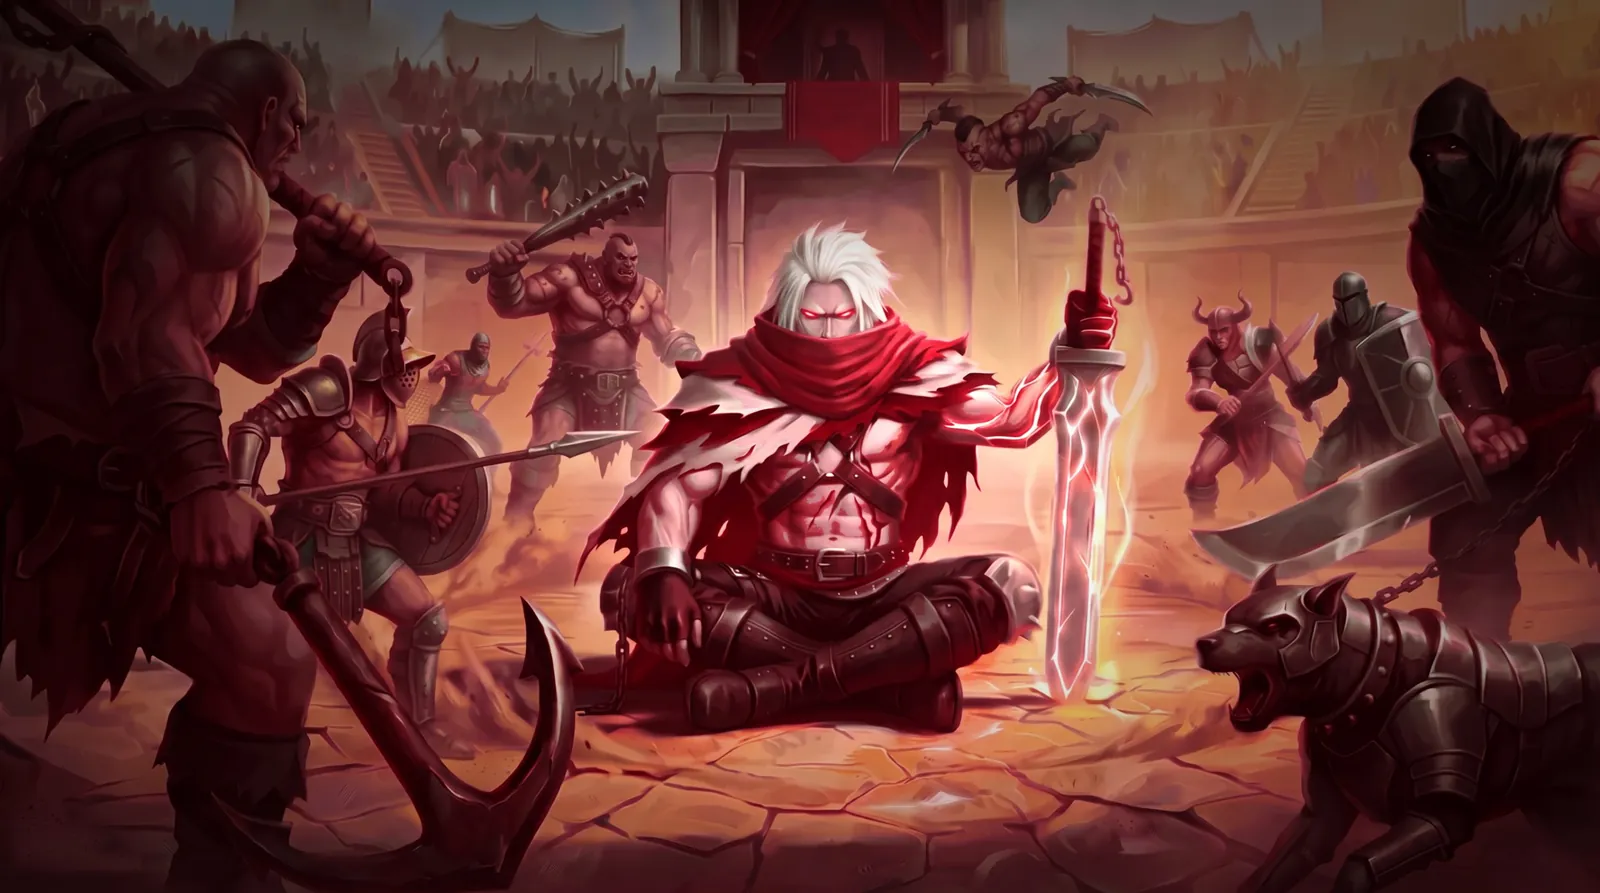
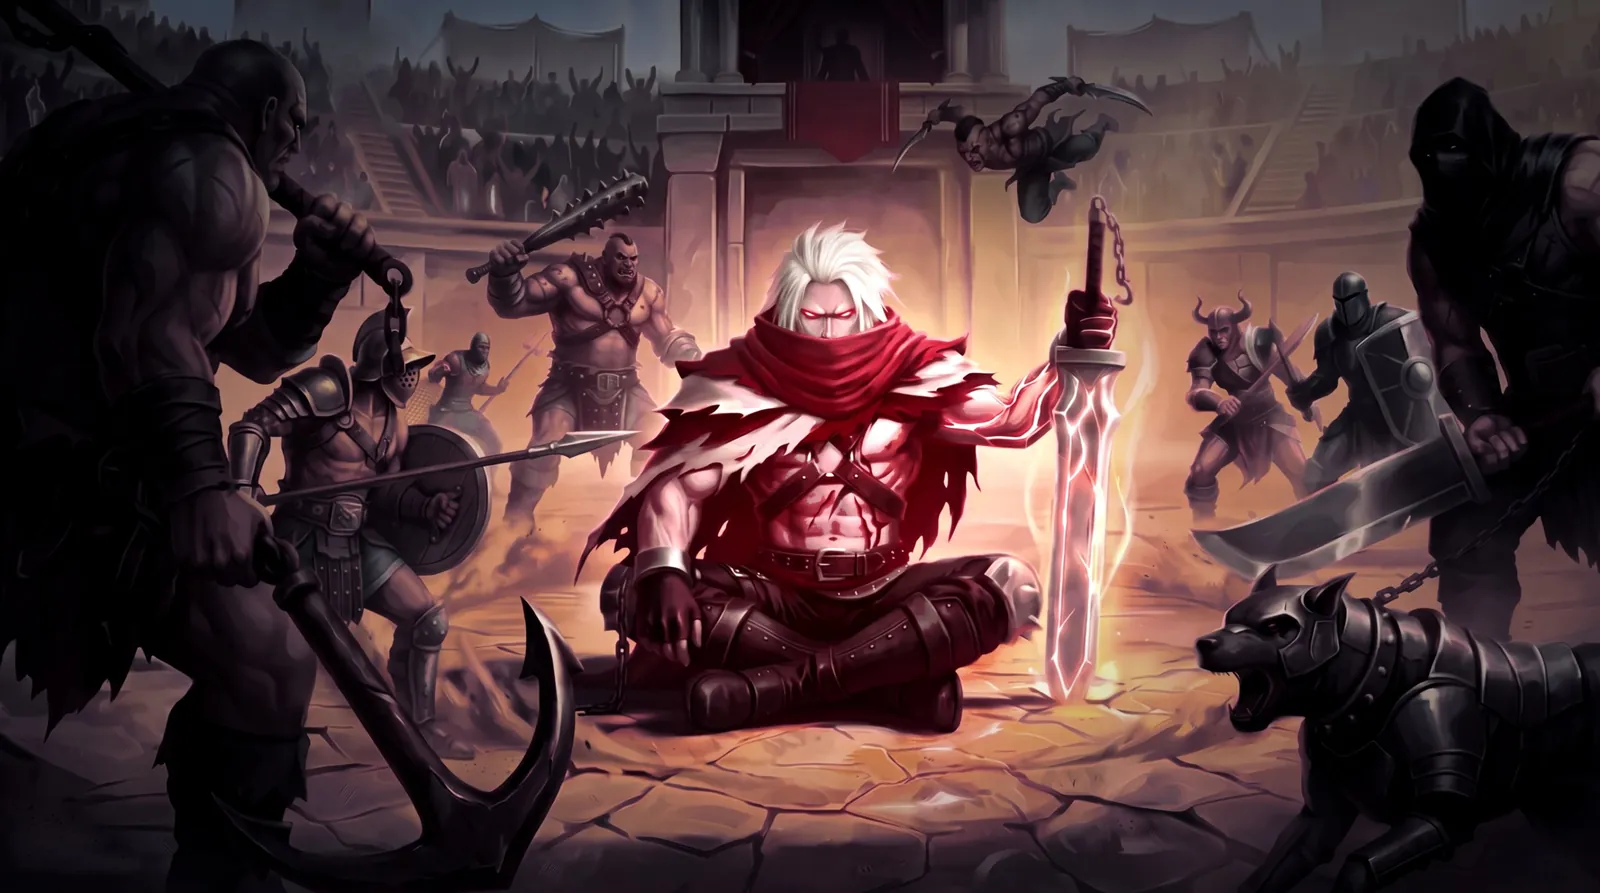
Kael: darker arena splash; Mossy and Kael swap places in the order
Claude-Session: https://claude.ai/code/session_015vSSPmpJoF22Rm1LS1od6V

diff --git a/presskit.html b/presskit.html
@@ -63,9 +63,9 @@
         <h2>Hunter art</h2>
         <div class="pk-grid">
           <a href="assets/img/hunters/vex-2400.webp" target="_blank"><img src="assets/img/hunters/vex-960.webp" alt="Vex splash art" loading="lazy"></a>
-          <a href="assets/img/hunters/kael-2400.webp" target="_blank"><img src="assets/img/hunters/kael-960.webp" alt="Kael splash art" loading="lazy"></a>
-          <a href="assets/img/hunters/lisette-2400.webp" target="_blank"><img src="assets/img/hunters/lisette-960.webp" alt="Ravel splash art" loading="lazy"></a>
           <a href="assets/img/hunters/breaker-2400.webp" target="_blank"><img src="assets/img/hunters/breaker-960.webp" alt="Mossy splash art" loading="lazy"></a>
+          <a href="assets/img/hunters/lisette-2400.webp" target="_blank"><img src="assets/img/hunters/lisette-960.webp" alt="Ravel splash art" loading="lazy"></a>
+          <a href="assets/img/hunters/kael-2400.webp" target="_blank"><img src="assets/img/hunters/kael-960.webp" alt="Kael splash art" loading="lazy"></a>
           <a href="assets/img/hunters/ryzz-2400.webp" target="_blank"><img src="assets/img/hunters/ryzz-960.webp" alt="Ryzz splash art" loading="lazy"></a>
           <a href="assets/img/hunters/cinder-2400.webp" target="_blank"><img src="assets/img/hunters/cinder-960.webp" alt="Cinder splash art" loading="lazy"></a>
           <a href="assets/img/hunters/grimble-2400.webp" target="_blank"><img src="assets/img/hunters/grimble-960.webp" alt="Grimble splash art" loading="lazy"></a>
@@ -97,6 +97,6 @@
     <a href="mailto:orri@projectboki.com">Contact</a>
   </nav>
 </footer>
-<script src="assets/site.js?v=44"></script>
+<script src="assets/site.js?v=45"></script>
 </body>
 </html>

diff --git a/assets/site.js b/assets/site.js
@@ -109,9 +109,9 @@ function spinner(box, el) {
 // [id, name, title, has an up-to-date in-game model]
 const HUNTERS = [
   ["vex", "Vex", "Hired Gun", true],
-  ["kael", "Kael", "The Unbroken", false],
-  ["lisette", "Ravel", "Red Stitch", true],
   ["breaker", "Mossy", "Sunken Bulwark", false],
+  ["lisette", "Ravel", "Red Stitch", true],
+  ["kael", "Kael", "The Unbroken", false],
   ["ryzz", "Ryzz", "Storm Chaser", true],
   ["cinder", "Cinder", "Mad Pyromancer", false],
   ["grimble", "Grimble", "Scrap King", true],

diff --git a/index.html b/index.html
@@ -159,6 +159,6 @@
   <symbol id="i-play" viewBox="0 0 24 24"><path d="M7 4.5v15a1 1 0 0 0 1.5.86l12.4-7.5a1 1 0 0 0 0-1.72L8.5 3.64A1 1 0 0 0 7 4.5Z"/></symbol>
 </svg>
 
-<script src="assets/site.js?v=44"></script>
+<script src="assets/site.js?v=45"></script>
 </body>
 </html>
